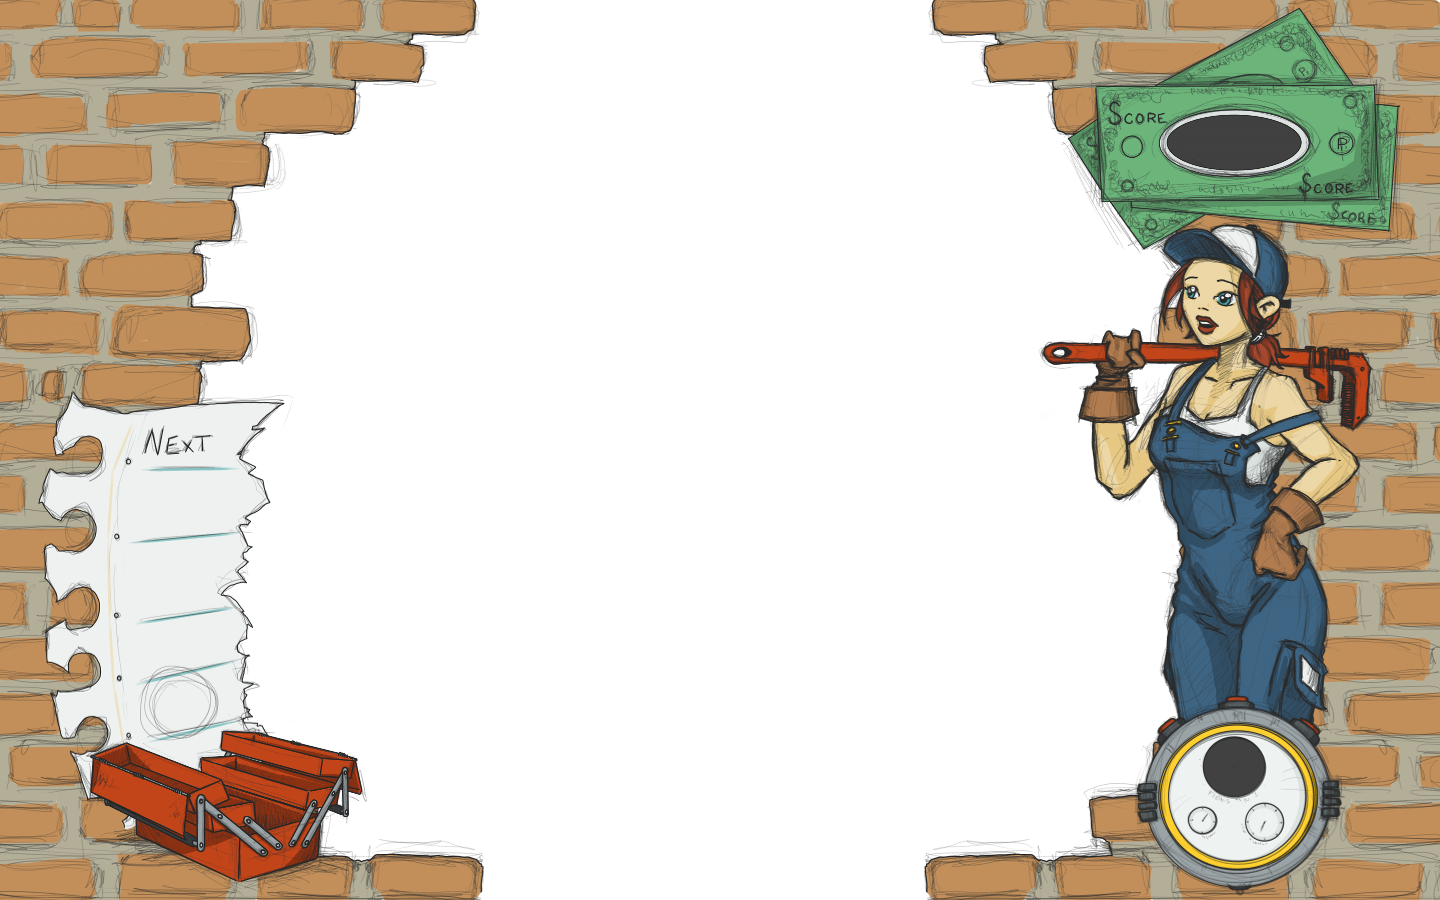
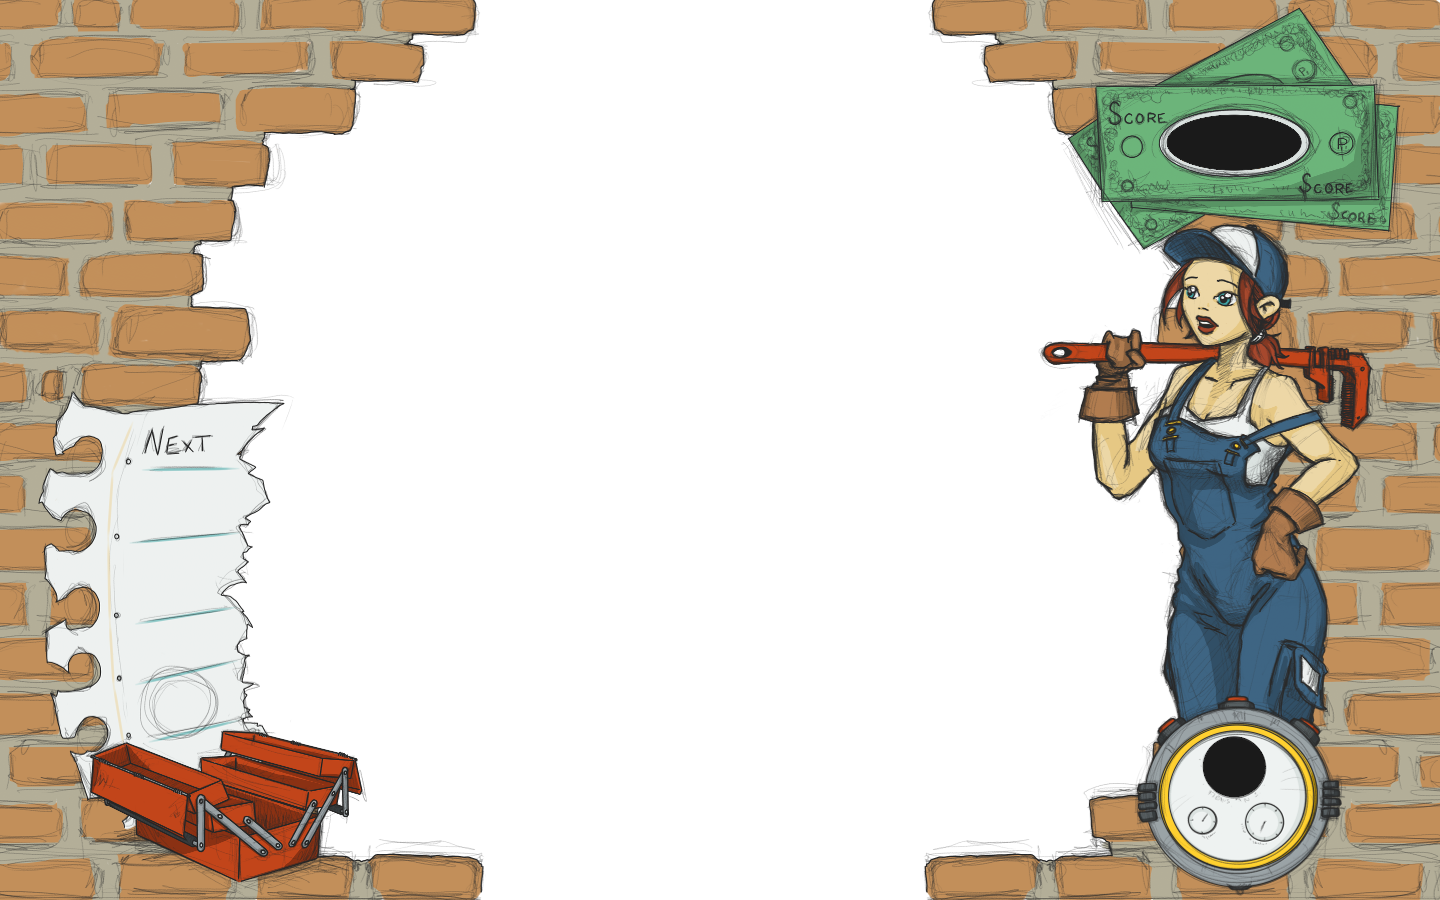
Modified dashboard, removed back, loose time has lvl up.

Changed region(s): [[0.8125, 0.1244, 0.9062, 0.1867], [0.8125, 0.8089, 0.875, 0.9022]]

diff --git a/game.py b/game.py
@@ -19,11 +19,11 @@ class Game:
         self.circuit = []
         self.box = []
         self.score = 0
-        self.lvl = 1
+        self.lvl = 0
+        self.time = 60
         self.state = 'WAITING'
 
         self.dashboard = pygame.image.load('images/dashboard.png')
-        self.back = pygame.image.load('images/dashboard_back.png')
         self.arrow_image = pygame.image.load('images/arrow.png')
 
         self.layer1 = pygame.Surface((900, 660), 32)
@@ -39,10 +39,10 @@ class Game:
         self.arrow.topleft = (120, 485)
 
     def reset(self):
-        """ Reset score and level """
+        """ Reset score, level and time """
         self.score = 0
         self.lvl = 0
-        self.countdown = 60
+        self.time = 60
         self.set_up()
 
     def set_up(self):
@@ -63,16 +63,20 @@ class Game:
 
         self.circuit.append(self.valve)
         self.circuit.append(self.end)
+        self.place_block()
 
-        for i in range(randint(int(self.lvl / 2), self.lvl)):
-            self.place_block(self.factory.get_extra('block'))
-
-        self.countdown = 60 - self.lvl
+        self.lvl += 1
+        self.set_time()
+        self.countdown = self.time
         self.state = 'WAITING'
 
         self.liquid = Liquid(self.valve, self.end, self.update_gain)
 
         pygame.mixer.music.play(loops=-1)
+
+    def set_time(self):
+        if not self.lvl % 5 and self.time > 5:
+            self.time -= 5
 
     def process(self):
         self.flood_btn.process()
@@ -84,18 +88,20 @@ class Game:
         if self.pipe_score.top <= -20:
             self.layer4.fill((255, 255, 255, 0))
 
-    def place_block(self, block):
-        """ Prevents a block from being placed in front of
-            the entrance or the exit """
+    def place_block(self):
+        """ Place several blocks in the circuit """
 
-        pos = (randint(0, 14) * 60, randint(0, 9) * 60)
-        if (pos in self.valve.open_to()
-                or pos in self.end.open_to()
-                or self.is_locked(pos)):
-            return
-        else:
-            block.rect.topleft = pos
-            self.circuit.append(block)
+        for i in range(randint(self.lvl, self.lvl+1)):
+            block = self.factory.get_extra('block')
+
+            pos = (randint(0, 14) * 60, randint(0, 9) * 60)
+            if (pos in self.valve.open_to()
+                    or pos in self.end.open_to()
+                    or self.is_locked(pos)):
+                continue
+            else:
+                block.rect.topleft = pos
+                self.circuit.append(block)
 
     def fill_box(self):
         """ Refill the pipe's box """
@@ -179,14 +185,13 @@ class Game:
             surface.blit(pipe.image, (150, 470 + i * 70))
 
         self.layer1.fill((96, 93, 86))
+        self.layer3.fill((255, 255, 255, 0))
 
         for pipe in self.circuit:
             self.layer1.blit(pipe.image, pipe.rect.topleft)
 
         self.cursor.draw(self.layer1)
         self.liquid.draw(self.layer2)
-
-        self.layer3.blit(self.back, (0, 0))
 
         display_txt(self.score, 40, (83, 162, 162), self.layer3,
                     'center', 8)

diff --git a/liquid.py b/liquid.py
@@ -15,19 +15,23 @@ class Liquid:
         """ Returns the next floodable pipe """
 
         eligibles = []
-        elected = None
+
         for pipe in circuit:
             if (pipe.rect.topleft in self.previous.open_to()
                     and self.previous.rect.topleft in pipe.open_to()):
                 eligibles.append(pipe)
-        for pipe in eligibles:
-            if self.previous.name == 'regular':
-                elected = pipe
-            elif self.previous.name == 'cross':
+
+        if len(eligibles) > 1:
+            for pipe in eligibles:
                 if pipe.rect.topleft == (self.previous.rect.left+self.path[0],
                                          self.previous.rect.top+self.path[1]):
-                    elected = pipe
-        return elected
+                    return pipe
+
+        elif len(eligibles) == 1:
+            return eligibles[0]
+
+        else:
+            return None
 
     def flood(self, circuit):
         """ Floods the circuit """
